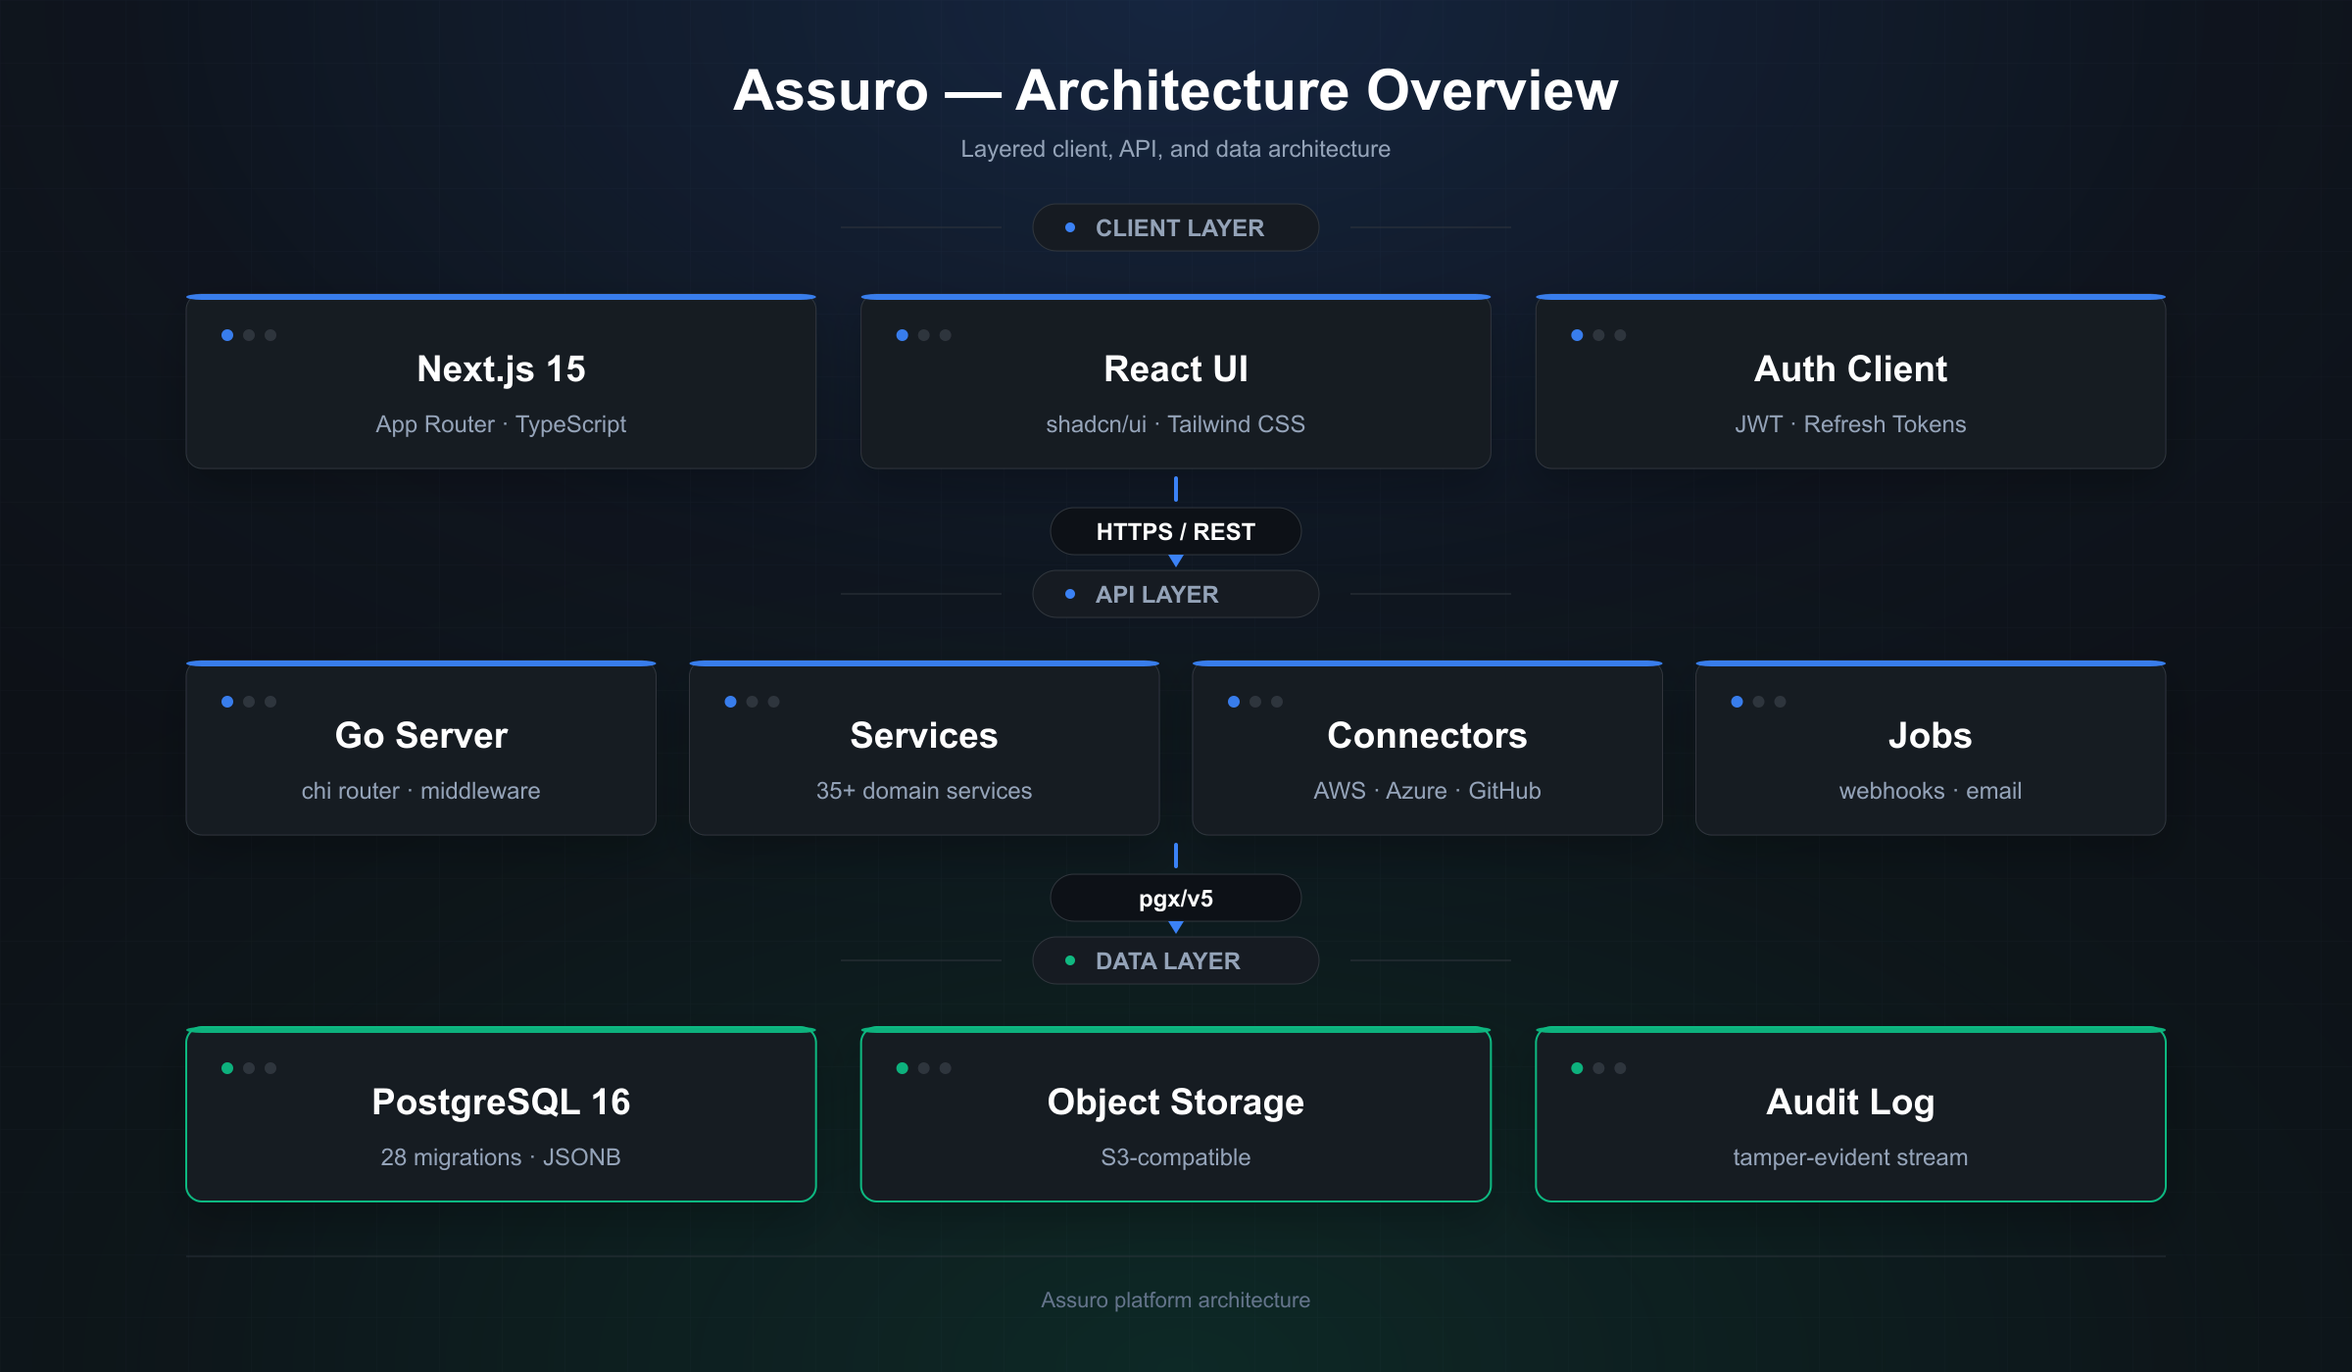
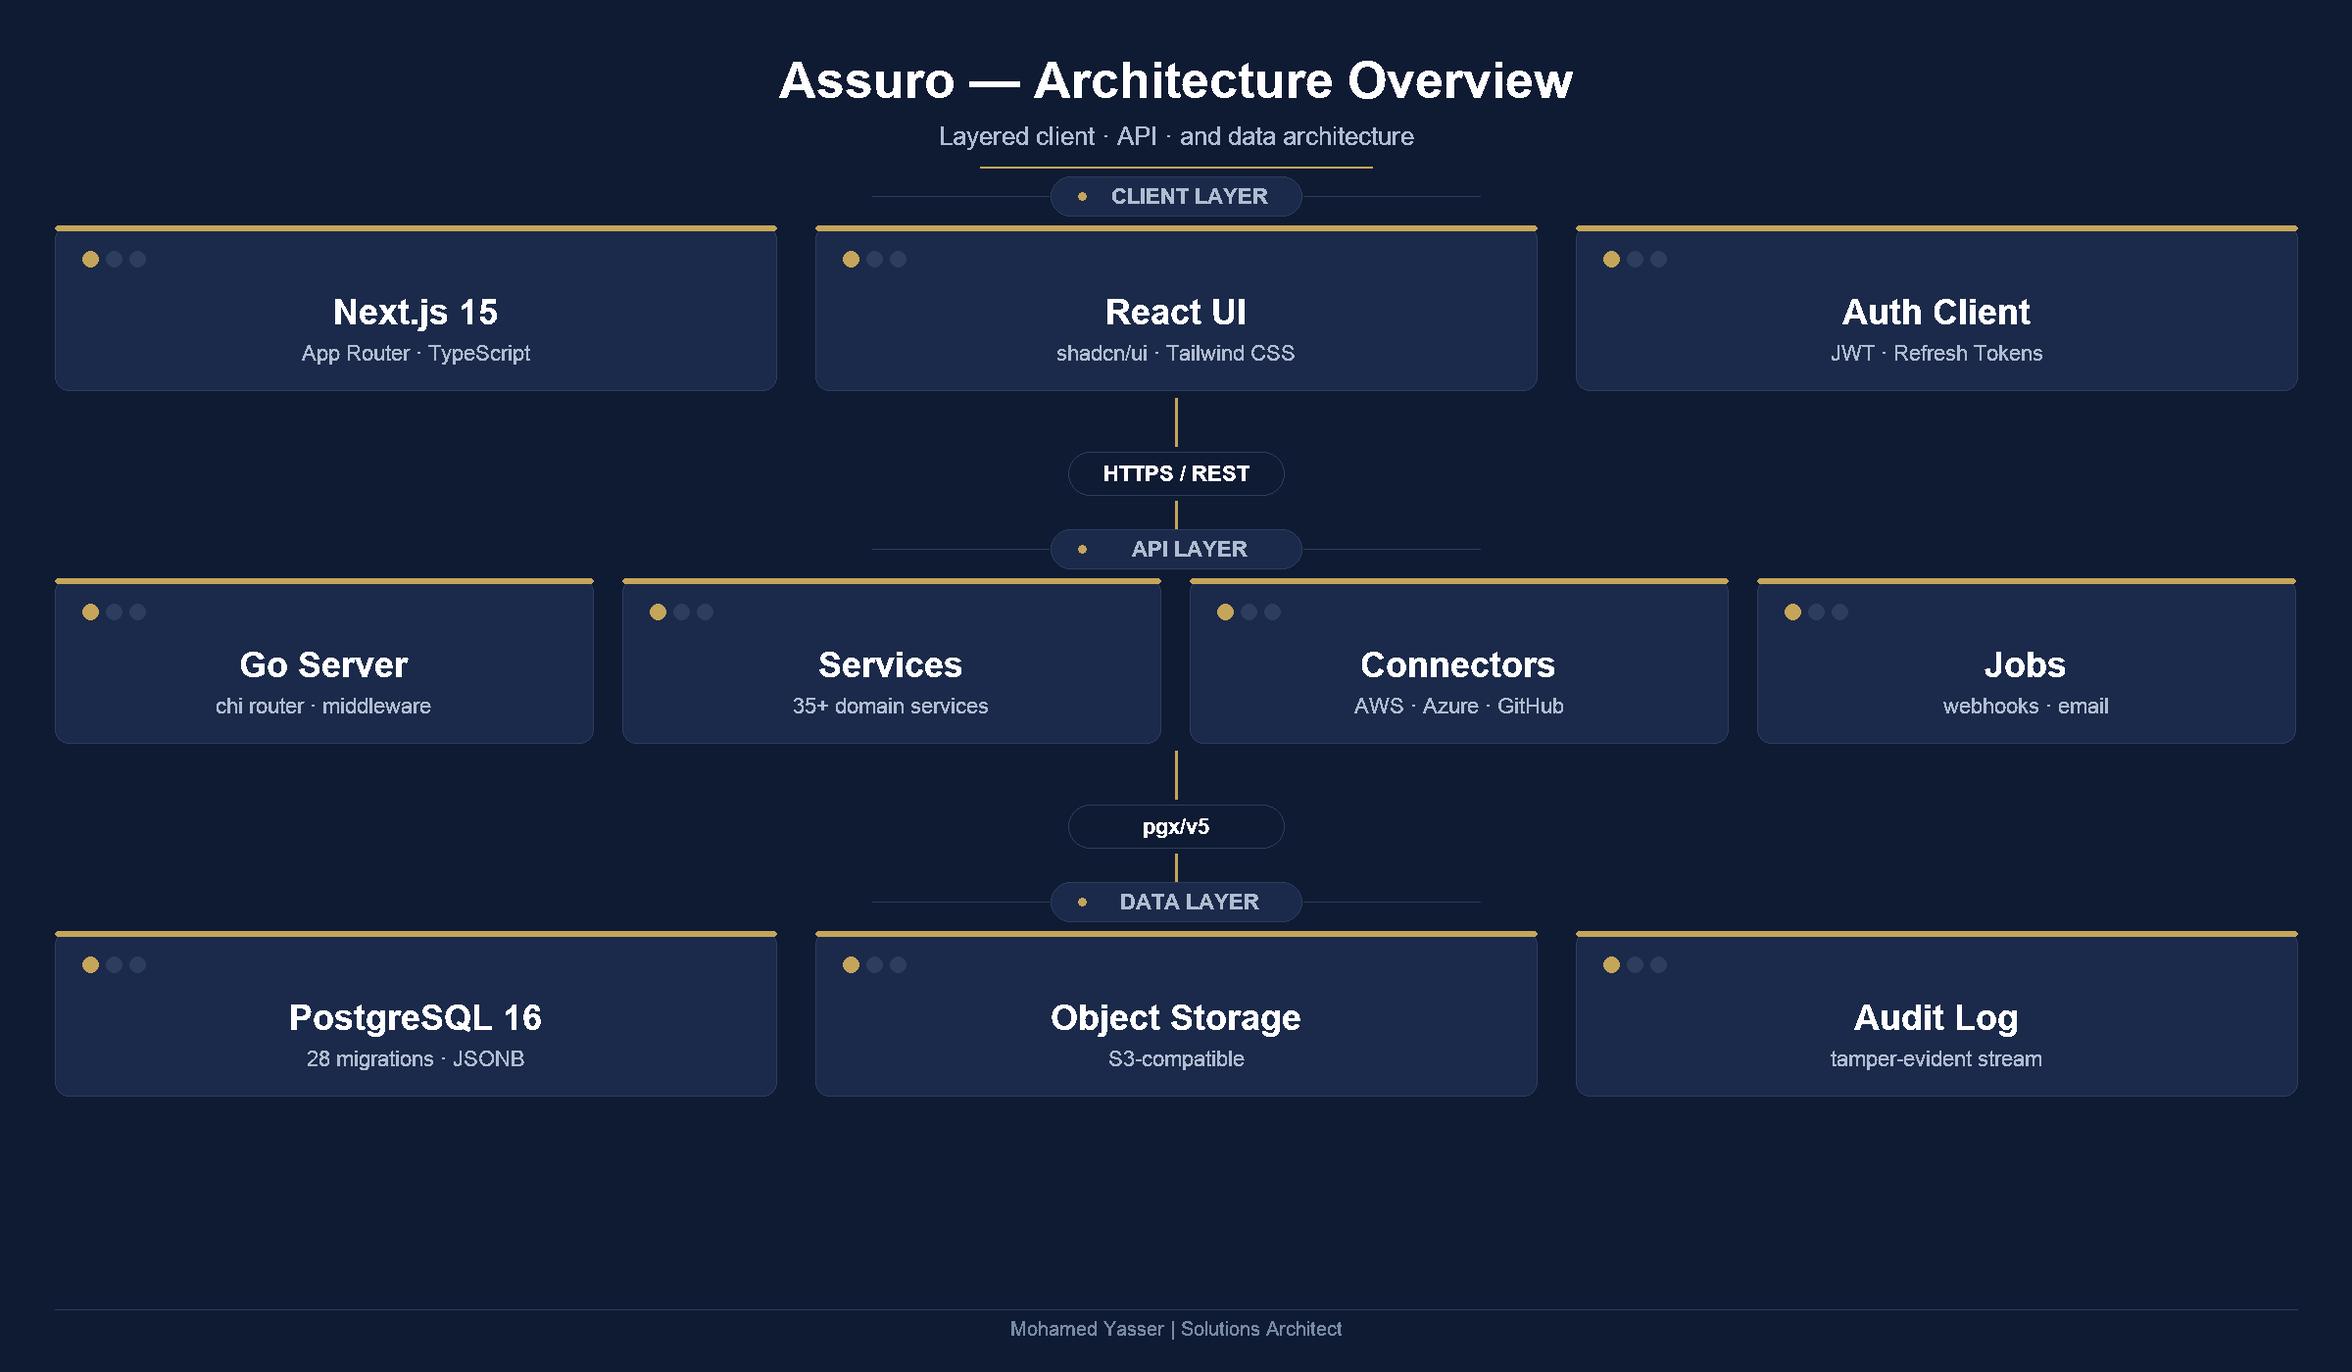
docs: rebrand README with navy/gold theme, remove duplicate architecture, add MY footer

diff --git a/README.md b/README.md
@@ -1,103 +1,78 @@
 <div align="center">
 
-![Assuro Banner](docs/assets/banner.png)
+<img src="docs/assets/banner.png" alt="Assuro" width="100%" />
 
-<br/>
+<br/><br/>
 
-[![Go](https://img.shields.io/badge/Go-1.25-00ADD8?style=flat-square&logo=go&logoColor=white)](https://go.dev)
-[![Next.js](https://img.shields.io/badge/Next.js-15-000000?style=flat-square&logo=nextdotjs&logoColor=white)](https://nextjs.org)
-[![PostgreSQL](https://img.shields.io/badge/PostgreSQL-16-4169E1?style=flat-square&logo=postgresql&logoColor=white)](https://www.postgresql.org)
-[![License](https://img.shields.io/badge/License-Apache_2.0-3b82f6?style=flat-square)](LICENSE)
-[![PRs Welcome](https://img.shields.io/badge/PRs-welcome-10b981?style=flat-square)](CONTRIBUTING.md)
+[![License](https://img.shields.io/badge/License-Apache_2.0-C5A55A?style=flat-square&labelColor=1B2A4A)](LICENSE)
+[![Go](https://img.shields.io/badge/Go-1.25-C5A55A?style=flat-square&labelColor=1B2A4A)](https://go.dev)
+[![PostgreSQL](https://img.shields.io/badge/PostgreSQL-16-C5A55A?style=flat-square&labelColor=1B2A4A)](https://postgresql.org)
+[![Next.js](https://img.shields.io/badge/Next.js-15-C5A55A?style=flat-square&labelColor=1B2A4A)](https://nextjs.org)
+[![PRs Welcome](https://img.shields.io/badge/PRs-welcome-C5A55A?style=flat-square&labelColor=1B2A4A)](CONTRIBUTING.md)
 
-**Open-source AI governance, compliance, and risk management platform.**  
-Built for teams operating AI systems under EU AI Act, NIST AI RMF, and ISO/IEC 42001.
+**Self-hostable AI governance, compliance, and risk management platform.**
 
-[Quick Start](#quick-start) · [Features](#features) · [Architecture](#architecture) · [API](#api-reference) · [Self-Host](#self-hosting) · [Contributing](#contributing)
+[Quick Start](#quick-start) · [Features](#features) · [Architecture](#architecture) · [API](#api) · [Deployment](#deployment) · [Contributing](#contributing)
 
 </div>
 
 ---
 
-## What is Assuro?
+## Overview
 
-Assuro is a **self-hostable AI governance platform** that gives security and compliance teams a single place to register, assess, and continuously monitor AI systems across your organisation. It automates the evidence trail needed for regulatory frameworks and surfaces risk before it becomes a liability.
+Assuro is an open-source platform for organisations that operate AI systems under regulatory frameworks. It provides a structured inventory, automated risk scoring, cross-framework compliance mapping, and a full audit trail — all in a single self-hosted deployment.
 
-- **Register** every AI system, agent, and vendor in a structured inventory
-- **Assess** against EU AI Act, NIST AI RMF, ISO/IEC 42001, and custom frameworks
-- **Monitor** risk scores, incidents, and shadow AI continuously
-- **Govern** with approval gates, policy workflows, and a full audit log
-- **Export** compliance reports with tamper-evident SHA-256 hashes
+**Frameworks supported out of the box:** EU AI Act · NIST AI RMF · ISO/IEC 42001
 
 ---
 
 ## Features
 
-### Core Governance
-| Feature | Description |
-|---|---|
-| **AI System Registry** | Register models, pipelines, and agents with risk classification (minimal / limited / high / unacceptable) |
-| **Risk Engine** | Automated risk scoring with tier assignment and historical trend tracking |
-| **Cross-Framework Compliance** | EU AI Act · NIST AI RMF · ISO/IEC 42001 — SoA with control mapping |
-| **Assessment Workflows** | Structured assessments with evidence collection, version history, and sign-off |
-| **Continuous Monitoring** | Configurable thresholds, drift detection, and alert rules |
-| **Incident & CAPA** | Incident lifecycle management with corrective action tracking |
+### Governance & Compliance
 
-### Extended Modules
 | Module | Description |
 |---|---|
-| **Agent Registry & Runtime** | Register autonomous agents, manage permissions, guardrail policies, kill-switch |
-| **Shadow AI Discovery** | Cloud connector scans (AWS Bedrock, Azure AI, GCP Vertex, GitHub, HuggingFace) + inbox reconciliation |
-| **Vendor Risk** | Third-party AI vendor inventory with assessment scoring and risk tier |
-| **Policy Management** | Draft → review → approve workflow with attestation tracking |
-| **Model Cards** | Structured model documentation with versioned JSON sections |
-| **Model Testing** | Test suites (functional / bias / robustness / security) with scored runs |
-| **Approval Gates** | Multi-stakeholder approval workflows with configurable thresholds |
-| **Task Management** | Priority-sorted remediation and review tasks with comments |
-| **Analytics Dashboard** | Cross-domain metrics: risk distribution, compliance score, incident trends |
-| **Audit Log** | Structured event stream with filtering, date range, and CSV export |
-| **RBAC** | Custom org roles with 30+ fine-grained permission scopes |
-| **Notifications & Webhooks** | In-app notifications, email preferences, webhook delivery with retry logs |
-| **Data Export / Import** | Full org JSON export, CSV asset export, bulk import for assets and vendors |
+| AI System Registry | Register models, pipelines, and agents with risk tier classification |
+| Risk Engine | Automated scoring with historical trend tracking per asset |
+| Compliance Register | SoA with control mapping across EU AI Act, NIST AI RMF, ISO 42001 |
+| Assessment Workflows | Structured assessments with evidence collection and sign-off |
+| Continuous Monitoring | Configurable thresholds, drift detection, and alert rules |
+| Incident & CAPA | Incident lifecycle management with corrective action tracking |
+| Report Generation | PDF/JSON compliance reports with tamper-evident SHA-256 hashes |
+
+### Extended Modules
+
+| Module | Description |
+|---|---|
+| Agent Registry & Runtime | Register autonomous agents, guardrail policies, anomaly detection, kill-switch |
+| Shadow AI Discovery | Cloud connector scans (AWS Bedrock, Azure AI, GCP Vertex, GitHub, HuggingFace) |
+| Vendor Risk | Third-party AI vendor inventory with risk tier assessment |
+| Policy Management | Draft → review → approve workflow with attestation tracking |
+| Model Cards | Versioned structured model documentation |
+| Model Testing | Test suites (functional / bias / robustness / security) with scored runs |
+| Approval Gates | Multi-stakeholder approval workflows with configurable thresholds |
+| Task Management | Priority-sorted remediation tasks with comments |
+| Analytics Dashboard | Risk distribution, compliance score, incident trends |
+| Audit Log | Filterable event stream with date range filters and CSV export |
+| RBAC | Custom org roles with 30+ fine-grained permission scopes |
+| Notifications & Webhooks | In-app notifications, email preferences, webhook delivery logs |
+| Data Export / Import | Full org JSON export, CSV export, bulk asset and vendor import |
 
 ---
 
 ## Architecture
 
-![Architecture Diagram](docs/assets/architecture.png)
-
-```
-┌──────────────────────────────────────────────────────────┐
-│                  Next.js 15 Frontend                     │
-│         App Router · TypeScript · Tailwind CSS           │
-└──────────────────┬───────────────────────────────────────┘
-                   │  REST / JSON
-┌──────────────────▼───────────────────────────────────────┐
-│                  Go API Server (chi)                      │
-│   31 handler files · 35+ services · JWT middleware       │
-│   Rate limiting · RBAC · Audit log middleware            │
-├────────────────────────────────┬─────────────────────────┤
-│   Cloud Connectors             │   Background Jobs        │
-│   AWS Bedrock · Azure AI       │   Email · Webhooks       │
-│   GCP Vertex · GitHub · HF     │   Risk recompute         │
-└────────────────────────────────┴──────────┬──────────────┘
-                                            │  pgx/v5
-┌───────────────────────────────────────────▼──────────────┐
-│                  PostgreSQL 16                           │
-│   28 migrations · JSONB · UUID · Audit stream           │
-└──────────────────────────────────────────────────────────┘
-```
-
-**Stack at a glance:**
+<div align="center">
+<img src="docs/assets/architecture.png" alt="Assuro Architecture" width="100%" />
+</div>
 
 | Layer | Technology |
 |---|---|
-| Backend | Go 1.25 · chi v5 · pgx/v5 · sqlc · goose · zap |
 | Frontend | Next.js 15 · React · TypeScript · Tailwind CSS · shadcn/ui |
-| Database | PostgreSQL 16 |
-| Auth | JWT (access + refresh) · argon2id password hashing |
-| Observability | Structured JSON logging · OpenTelemetry-ready |
-| Deploy | Docker Compose · Caddy reverse proxy |
+| Backend | Go 1.25 · chi v5 · pgx/v5 · sqlc · goose · zap |
+| Database | PostgreSQL 16 — 28 migrations, JSONB, UUID primary keys |
+| Auth | JWT access + refresh tokens · argon2id password hashing |
+| Deployment | Docker Compose · Caddy reverse proxy |
 
 ---
 
@@ -106,57 +81,39 @@ Assuro is a **self-hostable AI governance platform** that gives security and com
 **Prerequisites:** Docker, Docker Compose
 
 ```bash
-# 1. Clone
 git clone https://github.com/YASSERRMD/Assuro.git
 cd Assuro
 
-# 2. Start PostgreSQL
-make docker-up
+make docker-up      # start PostgreSQL
+make migrate-up     # run migrations
+make run            # start API on :8080
 
-# 3. Run migrations
-make migrate-up
-
-# 4. Start the API (port 8080)
-make run
-
-# 5. Start the frontend (port 3000)
-cd web && npm install && npm run dev
+cd web && npm install && npm run dev   # start frontend on :3000
 ```
 
-The API is available at `http://localhost:8080` and the UI at `http://localhost:3000`.
+### Environment variables
 
-### Environment Variables
-
-```bash
-# Required
+```env
 DATABASE_URL=postgres://assuro:assuro@localhost:5432/assuro?sslmode=disable
 JWT_SECRET=change-me-in-production
-
-# Optional
 PORT=8080
 LOG_LEVEL=info
-OPENAI_API_KEY=sk-...          # AI Assist feature
-AWS_REGION=us-east-1           # Bedrock connector
-AZURE_AI_ENDPOINT=https://...  # Azure AI connector
 ```
 
 ---
 
-## API Reference
+## API
 
-All endpoints are under `/v1/` and require a Bearer JWT token except `/v1/healthz`.
+All endpoints live under `/v1/` and require a `Bearer` JWT except `/v1/healthz`.
 
-### Key Endpoints
-
-| Method | Path | Description |
+| Method | Endpoint | Description |
 |---|---|---|
 | `GET` | `/v1/healthz` | Health check |
-| `POST` | `/v1/auth/register` | Register org + owner account |
-| `POST` | `/v1/auth/login` | Obtain access + refresh tokens |
+| `POST` | `/v1/auth/register` | Register org and owner account |
+| `POST` | `/v1/auth/login` | Obtain access and refresh tokens |
 | `GET` | `/v1/ai-systems` | List AI systems |
 | `GET` | `/v1/assets` | List assets |
-| `GET` | `/v1/risks` | List risk assessments |
-| `GET` | `/v1/analytics/dashboard` | Cross-domain analytics snapshot |
+| `GET` | `/v1/analytics/dashboard` | Cross-domain metrics snapshot |
 | `GET` | `/v1/audit-log` | Filterable audit event stream |
 | `GET` | `/v1/audit-log/export` | Download audit log as CSV |
 | `GET` | `/v1/export` | Full org data export (JSON) |
@@ -166,23 +123,15 @@ All endpoints are under `/v1/` and require a Bearer JWT token except `/v1/health
 
 ---
 
-## Self-Hosting
+## Deployment
 
-### Docker Compose (recommended)
+See [`docs/deployment.md`](docs/deployment.md) for production setup including TLS via Caddy, PostgreSQL connection pooling, backup strategy, and health checks.
 
 ```bash
-cp .env.example .env        # fill in secrets
-docker compose up -d
+cp .env.example .env
+docker compose -f docker-compose.prod.yml up -d
 docker compose exec api ./migrate up
 ```
-
-### Production
-
-See [`docs/deployment.md`](docs/deployment.md) for:
-- TLS with Caddy
-- PostgreSQL connection pooling
-- Backup strategy
-- Health checks and monitoring
 
 ---
 
@@ -190,49 +139,35 @@ See [`docs/deployment.md`](docs/deployment.md) for:
 
 ```
 Assuro/
-├── cmd/server/          # Main entrypoint
+├── cmd/server/          # Entrypoint
 ├── internal/
-│   ├── api/             # HTTP handlers (31 files)
-│   ├── service/         # Business logic (35+ services)
-│   ├── store/           # DB connection + sqlc generated queries
-│   ├── auth/            # JWT middleware and RBAC
+│   ├── api/             # HTTP handlers
+│   ├── service/         # Domain services
+│   ├── store/           # DB layer and sqlc queries
+│   ├── auth/            # JWT and RBAC middleware
 │   ├── connectors/      # Cloud AI connectors
 │   ├── notify/          # Notifications and webhook dispatcher
-│   ├── jobs/            # Background job queue
-│   ├── risk/            # Risk scoring engine
-│   └── report/          # PDF/JSON report builder
+│   └── risk/            # Risk scoring engine
 ├── migrations/          # 28 goose SQL migrations
-├── web/                 # Next.js 15 frontend
-│   ├── app/             # App Router pages
-│   └── components/      # Reusable UI components
-└── docs/                # Deployment and architecture docs
+└── web/                 # Next.js 15 frontend
 ```
 
 ---
 
 ## Contributing
 
-Contributions are welcome. Please read [CONTRIBUTING.md](CONTRIBUTING.md) before opening a PR.
-
 ```bash
-# Run all tests
-go test ./internal/...
-
-# Lint
-golangci-lint run
-
-# Frontend type-check
+go test ./internal/...   # run all tests
+golangci-lint run        # lint
 cd web && npm run type-check
 ```
 
----
-
-## License
-
-Apache 2.0 — see [LICENSE](LICENSE).
+Please read [CONTRIBUTING.md](CONTRIBUTING.md) before opening a pull request.
 
 ---
 
 <div align="center">
-<sub>Built for teams that take AI governance seriously.</sub>
+
+<sub>Mohamed Yasser | Solutions Architect</sub>
+
 </div>
